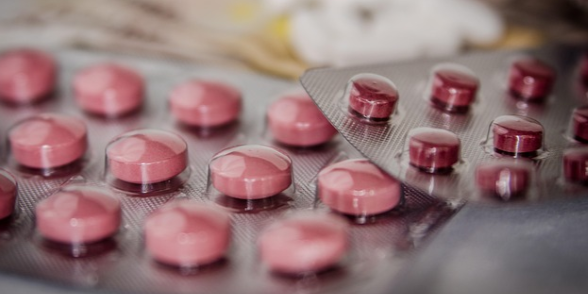
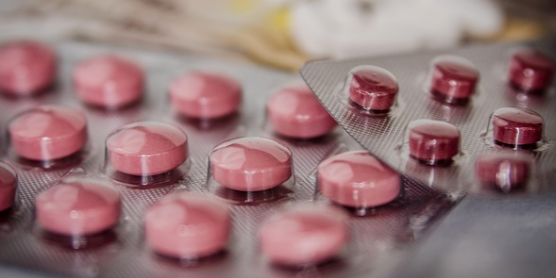
Update grocery copy and s&d.php files for consistency and organization

diff --git a/grocery s&d.php b/grocery s&d.php
@@ -44,7 +44,7 @@
     /* Promo Banner */
     .promo { width: 100%; max-width: 1463px; margin: 24px auto; position: relative; overflow: hidden; border-radius: 8px; }
     .slides { display: flex; transition: transform 0.5s ease; }
-    .slide { min-width: 100%; height: 165px; display: flex; justify-content: center; align-items: center; background: #eee; }
+    .slide { min-width: 100%; height: 278px; display: flex; justify-content: center; align-items: center; background: #eee; }
     .slide img { width: 100%; height: 100%; object-fit: contain; }
     .carousel-btn { position: absolute; top: 50%; transform: translateY(-50%); width: 50px; height: 50px; border: 2px solid #fff; color: #fff; border-radius: 50%; background: rgba(0,0,0,0.35); display: flex; align-items: center; justify-content: center; cursor: pointer; }
     .carousel-btn.left { left: 10px; }
@@ -154,11 +154,11 @@
   <!-- Promo -->
   <section class="promo container">
     <div id="slides" class="slides">
-      <div class="slide"><img src="assets/grocery_banner_5-31f79d.png" alt="Banner 1"></div>
-      <div class="slide"><img src="assets/grocery_banner_3-30d908.png" alt="Banner 2"></div>
-      <div class="slide"><img src="assets/grocery_banner_4-156c44.png" alt="Banner 3"></div>
-      <div class="slide"><img src="assets/grocery_banner_1.png" alt="Banner 4"></div>
-      <div class="slide"><img src="assets/grocery_banner_2.png" alt="Banner 5"></div>
+      <div class="slide"><img src="assets/grocery_banner 5" alt="Banner 1"></div>
+      <div class="slide"><img src="assets/grocery_banner 3" alt="Banner 2"></div>
+      <div class="slide"><img src="assets/grocery_banner 4" alt="Banner 3"></div>
+      <div class="slide"><img src="assets/grocery_banner 1" alt="Banner 4"></div>
+      <div class="slide"><img src="assets/grocery_banner 2" alt="Banner 5"></div>
     </div>
     <div class="carousel-btn left" id="btnPrev" aria-label="Previous">◀</div>
     <div class="carousel-btn right" id="btnNext" aria-label="Next">▶</div>

diff --git a/grocery copy.php b/grocery copy.php
@@ -203,7 +203,7 @@
         }
         .slide {
             min-width: 100%;
-            height: 165px; /* keep fixed height, or remove for auto */
+            height: 278px; /* keep fixed height, or remove for auto */
             display: flex;
             justify-content: center;
             align-items: center;
@@ -211,7 +211,7 @@
         }
         .slide img {
         width: 100%;
-        height: 165px;
+        height: 278px;
         object-fit: contain; /* full image visible */
         }
         .carousel-btn {
@@ -550,7 +550,7 @@
             <div class="label">Pharmacy</div>
     </div>
     </section>
-    
+
     <h3 class="section-title container">Best of Snacks</h3>
     <section class="grid container" id="grid"></section>
 
